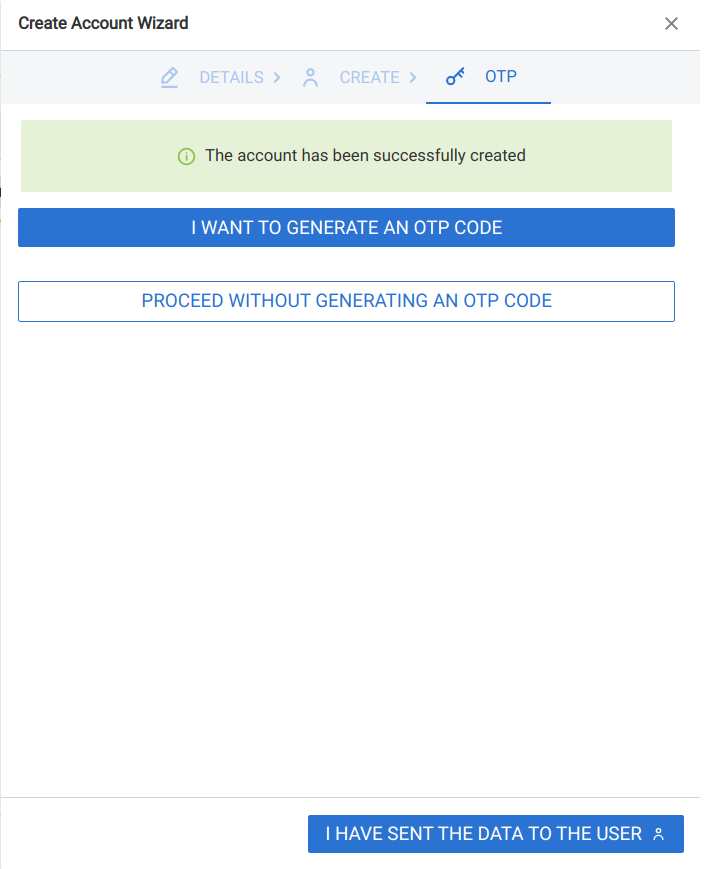
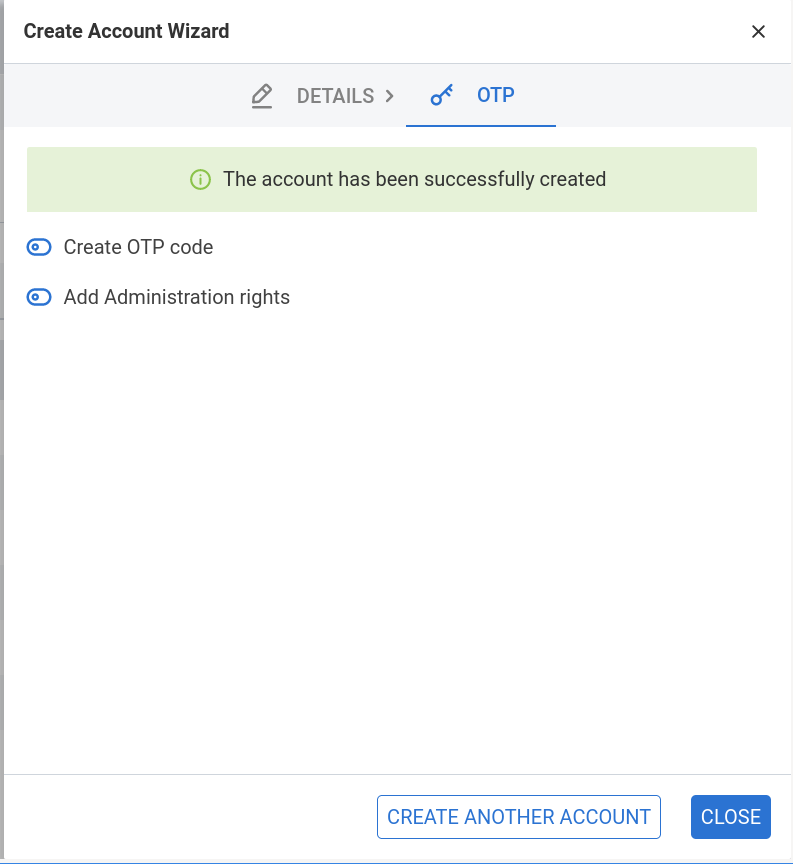
[ZTD-659] Review account creation (ADV)

Changed region(s): [[0.0, 0.0, 0.9579, 1.0], [0.4326, 0.9062, 0.9888, 1.0], [0.927, 0.0312, 0.9579, 0.0625]]

diff --git a/source/carbonio/adminpanel/domains/manage.rst b/source/carbonio/adminpanel/domains/manage.rst
@@ -221,12 +221,19 @@ of the new account.
 .. grid:: 1 1 2 2
    :gutter: 3
 
-   .. grid-item-card:: (Optional) Step 2: Send OTP to *John Smith*
+   .. grid-item-card:: (Optional) Step 2: Send OTP or grant rights to
+      *John Smith*
       :columns: 12 12 6 6
 
       Once the account has been created, you can optionally create an
       OTP code for John Smith, that he can use to quickly access his
       account.
+
+      You can also give the account administrative rights, that you
+      can customise. In this case, the account creation procedure
+      continues and allow to grant Global Administration Rights (see
+      Section :ref:`ap-new-admin`) or Delegated rights (see Section
+      :ref:`ap-admin-roles`.
 
    .. grid-item-card::
       :columns: 12 12 6 6

diff --git a/source/carbonio/adminpanel/adminroles.rst b/source/carbonio/adminpanel/adminroles.rst
@@ -1,5 +1,5 @@
 
-.. _ap-admin.roles:
+.. _ap-admin-roles:
 
 Administrative Roles Explained
 ==============================
